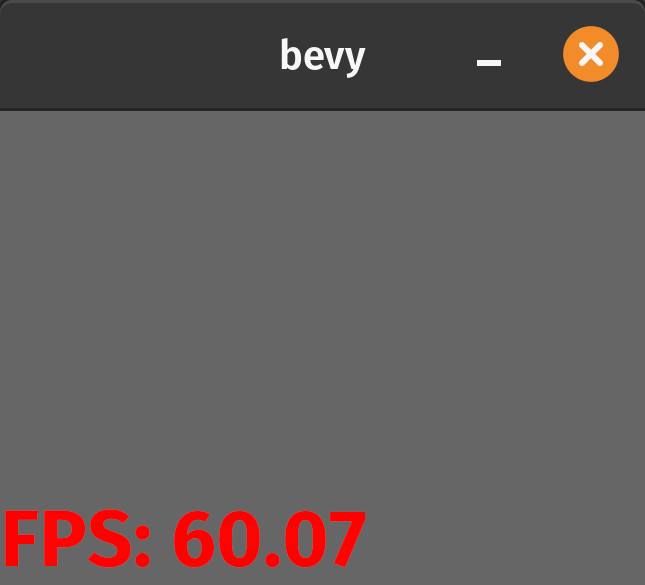
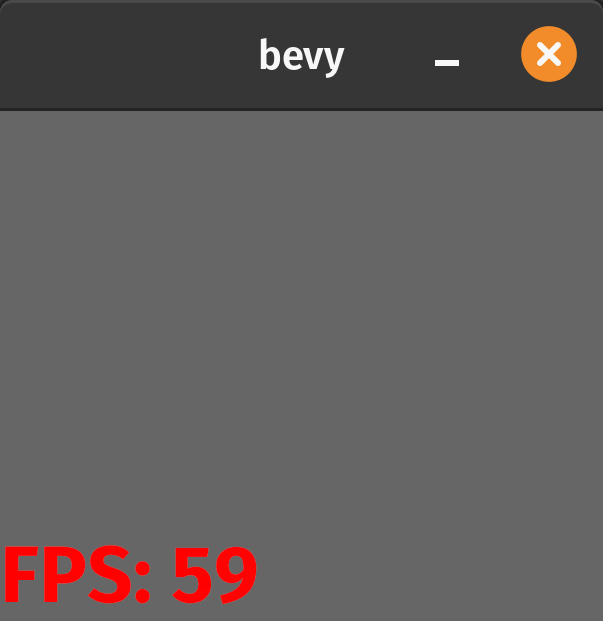
Revert added precision

Changed region(s): [[0.0, 0.0308, 1.0, 0.2154], [0.0, 0.8615, 0.5672, 0.9846], [0.7164, 0.0923, 0.7761, 0.1231]]

diff --git a/src/lib.rs b/src/lib.rs
@@ -86,7 +86,7 @@ fn format_fps(s: &mut String, fps: f64) {
     s.clear();
     // SAFETY: Writing to a String never fails
     unsafe {
-        write!(s, "{:.2}", fps).unwrap_unchecked();
+        write!(s, "{:.0}", fps).unwrap_unchecked();
     }
 }
 
